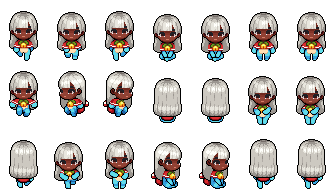
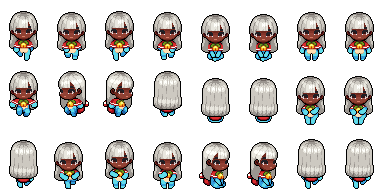
feat: expand spritesheet to 8 cols for ZEP 4-frame walk animation
- 4 walk frames from ZEP (no more ping-pong cycle)
- IDLE state uses ZEP idle frame (proper standing pose)
- Sit/type frames shifted to cols 4-5, read/idle to cols 6-7
- Walk animation frameRate matches ZEP's 8fps config

diff --git a/scripts/convert-zep-avatars.ts b/scripts/convert-zep-avatars.ts
@@ -19,9 +19,9 @@
  *      Verified mapping: sit frames are at 9-col flat index:
  *        32 → col 5 row 3, 33 → col 6 row 3, 34 → col 7 row 3, 35 → col 8 row 3)
  *
- * pixel-agents output: 7 cols × 3 rows of 48×64 frames (336×192 total)
+ * pixel-agents output: 8 cols × 3 rows of 48×64 frames (384×192 total)
  *   Row 0 = down, Row 1 = up, Row 2 = right (left flipped at runtime)
- *   Col order: walk1, walk2(=idle), walk3, type1, type2, read1, read2
+ *   Col order: walk1, walk2, walk3, walk4, type1, type2, read1, read2
  *
  * Frame mapping (per direction):
  *   ZEP walk1  → pa col 0 (walk1)
@@ -69,7 +69,7 @@ const ZEP_SIT: Record<number, { flatIndex: number }> = {
 // ---------------------------------------------------------------------------
 const PA_FRAME_W = 48
 const PA_FRAME_H = 64
-const PA_COLS = 7
+const PA_COLS = 8
 // pa row → zep row
 // pa row 0 (down)  → zep row 0
 // pa row 1 (up)    → zep row 3
@@ -213,7 +213,7 @@ for (let i = 0; i < 6; i++) {
 
   const composited = compositeLayers(layers)
 
-  // 2. Build the pixel-agents output (112×96)
+  // 2. Build the pixel-agents output (384×192)
   const out = new PNG({ width: PA_FRAME_W * PA_COLS, height: PA_FRAME_H * PA_DIR_TO_ZEP_ROW.length })
   // Zero-fill (transparent)
   out.data.fill(0)
@@ -222,21 +222,23 @@ for (let i = 0; i < 6; i++) {
     const zepRow = PA_DIR_TO_ZEP_ROW[paRow]
     const sitFlatIndex = ZEP_SIT[zepRow].flatIndex
 
-    // ZEP col offsets within a direction row: 0=idle, 1=walk1, 2=walk2, 3=walk3
+    // ZEP col offsets within a direction row: 0=idle, 1=walk1, 2=walk2, 3=walk3, 4=walk4
     // pa col 0: walk1 → zep col 1
     copyFrame(composited, out, zepRow, 1, paRow, 0)
-    // pa col 1: walk2 (idle stand) → zep col 2
+    // pa col 1: walk2 → zep col 2
     copyFrame(composited, out, zepRow, 2, paRow, 1)
     // pa col 2: walk3 → zep col 3
     copyFrame(composited, out, zepRow, 3, paRow, 2)
-    // pa col 3: type1 → sit frame
-    copySitFrame(composited, out, sitFlatIndex, paRow, 3)
-    // pa col 4: type2 → sit frame (duplicate)
+    // pa col 3: walk4 → zep col 4
+    copyFrame(composited, out, zepRow, 4, paRow, 3)
+    // pa col 4: type1 → sit frame
     copySitFrame(composited, out, sitFlatIndex, paRow, 4)
-    // pa col 5: read1 → zep idle (col 0)
-    copyFrame(composited, out, zepRow, 0, paRow, 5)
-    // pa col 6: read2 → zep idle (duplicate)
+    // pa col 5: type2 → sit frame (duplicate)
+    copySitFrame(composited, out, sitFlatIndex, paRow, 5)
+    // pa col 6: read1 → zep idle (col 0) = standing pose
     copyFrame(composited, out, zepRow, 0, paRow, 6)
+    // pa col 7: read2 → zep idle (duplicate)
+    copyFrame(composited, out, zepRow, 0, paRow, 7)
   }
 
   // 3. Write output

diff --git a/webview-ui/src/office/sprites/spriteData.ts b/webview-ui/src/office/sprites/spriteData.ts
@@ -1066,22 +1066,22 @@ export function getCharacterSprites(paletteIndex: number, hueShift = 0): Charact
 
     sprites = {
       walk: {
-        [Dir.DOWN]: [d[0], d[1], d[2], d[1]],
-        [Dir.UP]: [u[0], u[1], u[2], u[1]],
-        [Dir.RIGHT]: [rt[0], rt[1], rt[2], rt[1]],
-        [Dir.LEFT]: [flip(rt[0]), flip(rt[1]), flip(rt[2]), flip(rt[1])],
+        [Dir.DOWN]: [d[0], d[1], d[2], d[3]],
+        [Dir.UP]: [u[0], u[1], u[2], u[3]],
+        [Dir.RIGHT]: [rt[0], rt[1], rt[2], rt[3]],
+        [Dir.LEFT]: [flip(rt[0]), flip(rt[1]), flip(rt[2]), flip(rt[3])],
       },
       typing: {
-        [Dir.DOWN]: [d[3], d[4]],
-        [Dir.UP]: [u[3], u[4]],
-        [Dir.RIGHT]: [rt[3], rt[4]],
-        [Dir.LEFT]: [flip(rt[3]), flip(rt[4])],
+        [Dir.DOWN]: [d[4], d[5]],
+        [Dir.UP]: [u[4], u[5]],
+        [Dir.RIGHT]: [rt[4], rt[5]],
+        [Dir.LEFT]: [flip(rt[4]), flip(rt[5])],
       },
       reading: {
-        [Dir.DOWN]: [d[5], d[6]],
-        [Dir.UP]: [u[5], u[6]],
-        [Dir.RIGHT]: [rt[5], rt[6]],
-        [Dir.LEFT]: [flip(rt[5]), flip(rt[6])],
+        [Dir.DOWN]: [d[6], d[7]],
+        [Dir.UP]: [u[6], u[7]],
+        [Dir.RIGHT]: [rt[6], rt[7]],
+        [Dir.LEFT]: [flip(rt[6]), flip(rt[7])],
       },
     }
   } else {

diff --git a/src/constants.ts b/src/constants.ts
@@ -21,7 +21,7 @@ export const FLOOR_TILE_SIZE = 16;
 export const CHARACTER_DIRECTIONS = ['down', 'up', 'right'] as const;
 export const CHAR_FRAME_W = 48;
 export const CHAR_FRAME_H = 64;
-export const CHAR_FRAMES_PER_ROW = 7;
+export const CHAR_FRAMES_PER_ROW = 8;
 export const CHAR_COUNT = 6;
 
 // ── User-Level Layout Persistence ─────────────────────────────

diff --git a/webview-ui/src/office/engine/characters.ts b/webview-ui/src/office/engine/characters.ts
@@ -288,9 +288,9 @@ export function getCharacterSprite(ch: Character, sprites: CharacterSprites): Sp
     case CharacterState.WALK:
       return sprites.walk[ch.dir][ch.frame % 4]
     case CharacterState.IDLE:
-      return sprites.walk[ch.dir][1]
+      return sprites.reading[ch.dir][0]
     default:
-      return sprites.walk[ch.dir][1]
+      return sprites.reading[ch.dir][0]
   }
 }
 
